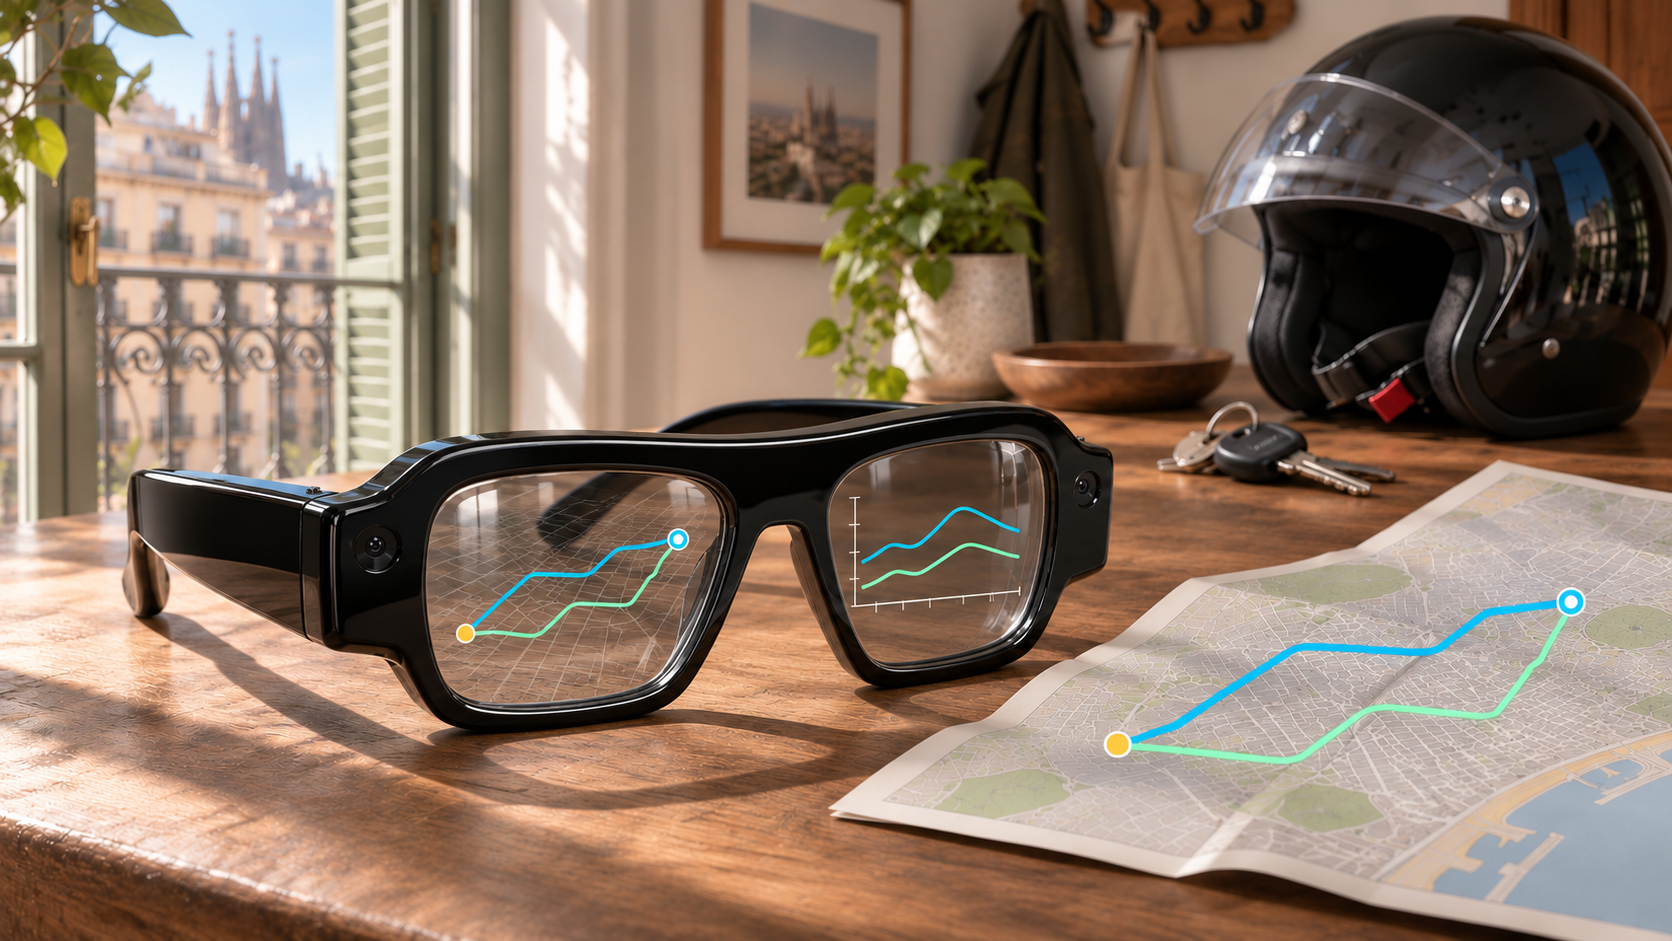
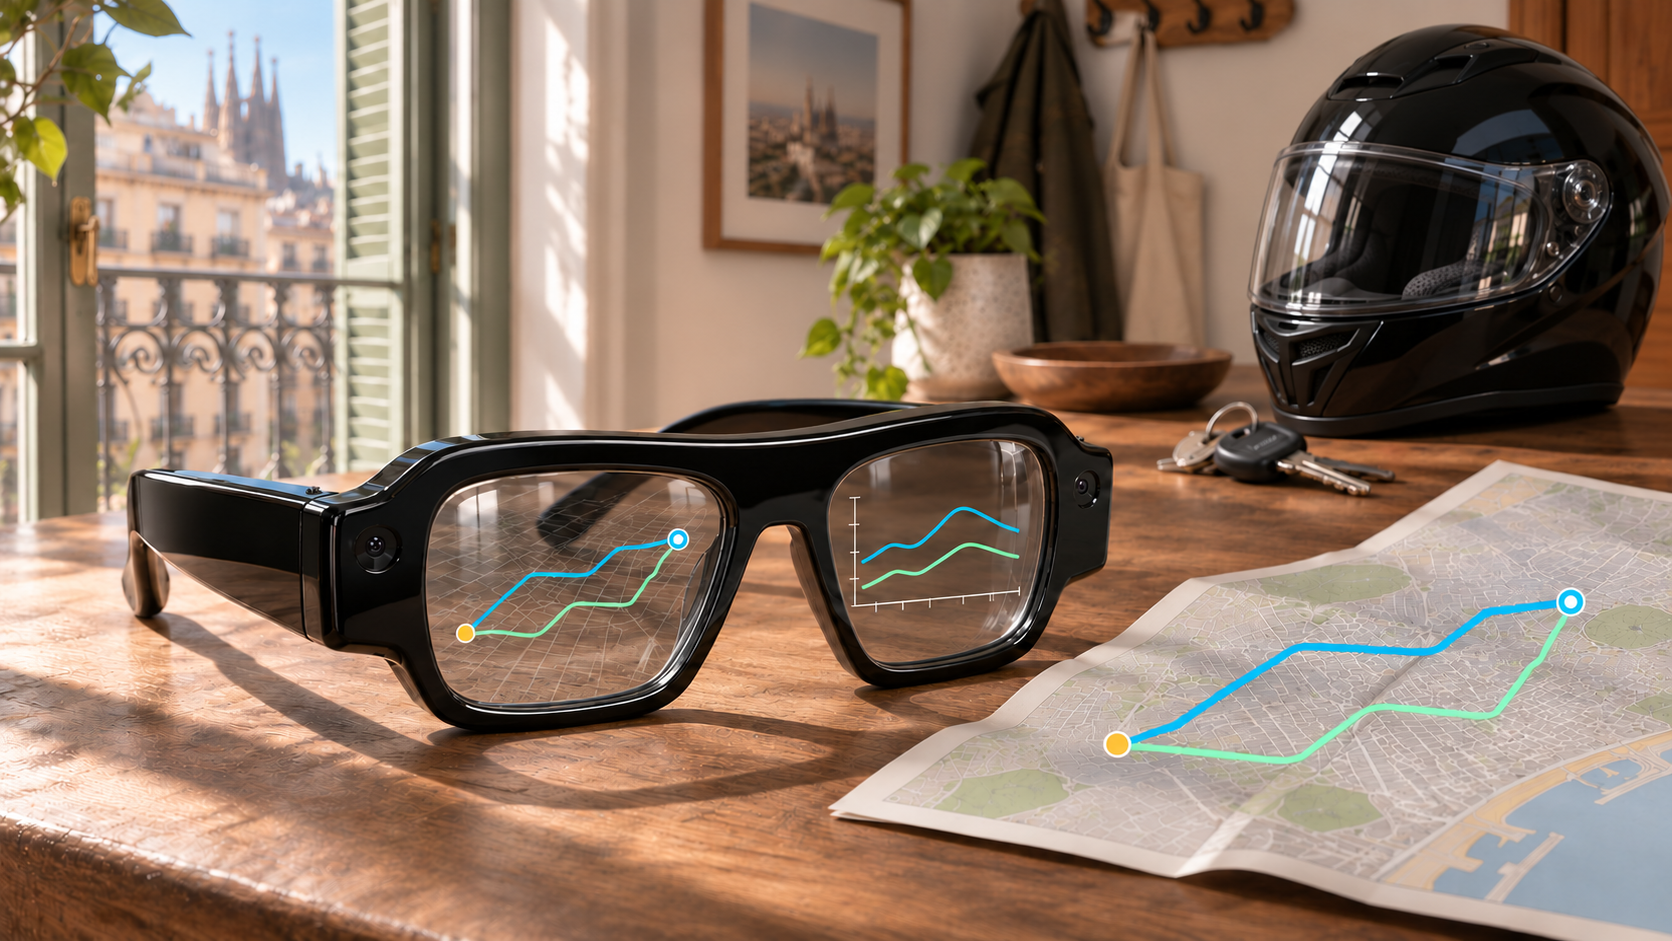
docs: clarify commute audience and update the helmet

Changed region(s): [[0.7153, 0.0, 1.0, 0.4931], [0.5909, 0.6472, 0.622, 0.678], [0.3732, 0.7088, 0.4043, 0.7396]]

diff --git a/README.md b/README.md
@@ -1,8 +1,10 @@
 # TrafficInsight
 
-**TrafficInsight is an augmented-reality prototype for Snap Spectacles AR glasses.** It helps motorcycle commuters decide when to leave and which route to take. Before departure, the wearer can compare traffic and pinch a route on a map placed above the table.
+**TrafficInsight is an augmented-reality prototype for Snap Spectacles AR glasses.** It helps commuters decide when to leave and which route to take. Before departure, the wearer can compare traffic and pinch a route on a map placed above the table.
 
-![Black AR glasses on a table beside a helmet. A two-route map and a traffic graph are illustrated inside the lenses.](docs/media/ar-glasses-commute-planning.png)
+Motorcyclists are the primary audience. The same pre-departure planning flow can help cyclists, car drivers, and other road users. The current Barcelona demo and traffic collector use motorcycle route estimates.
+
+![Black AR glasses on a table beside a full-face motorcycle helmet. A two-route map and a traffic graph are illustrated inside the lenses.](docs/media/ar-glasses-commute-planning.png)
 
 *Concept illustration showing the route map and traffic graph inside the lenses. The demo and screenshots below show the prototype in Lens Studio’s Spectacles simulator. Hardware testing is pending.*
 
